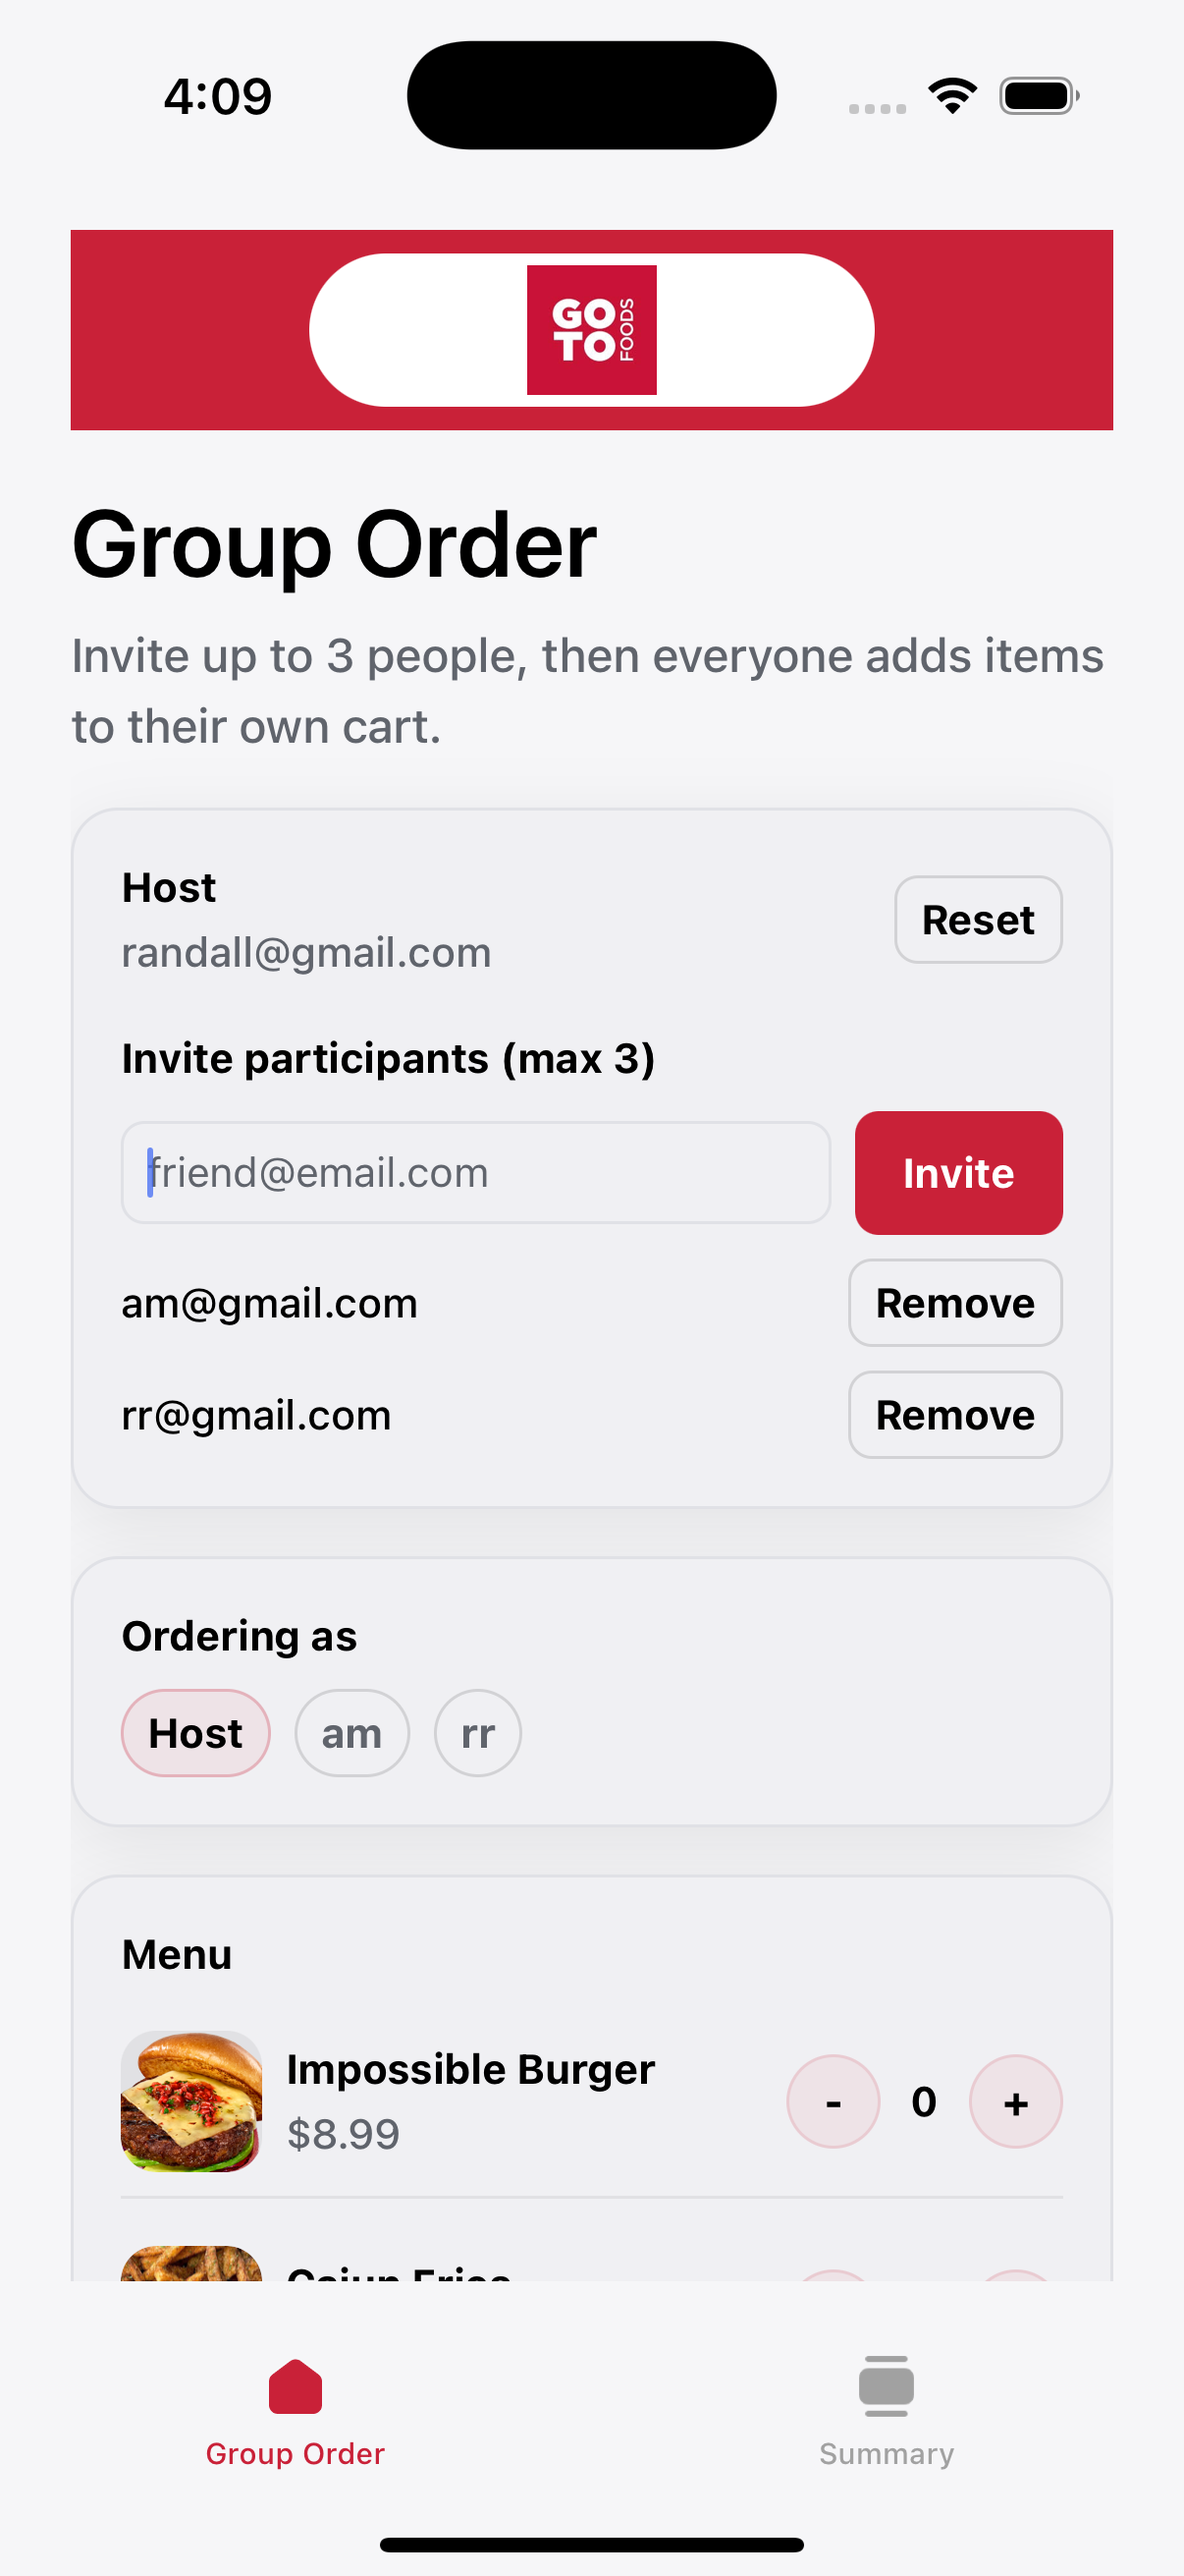
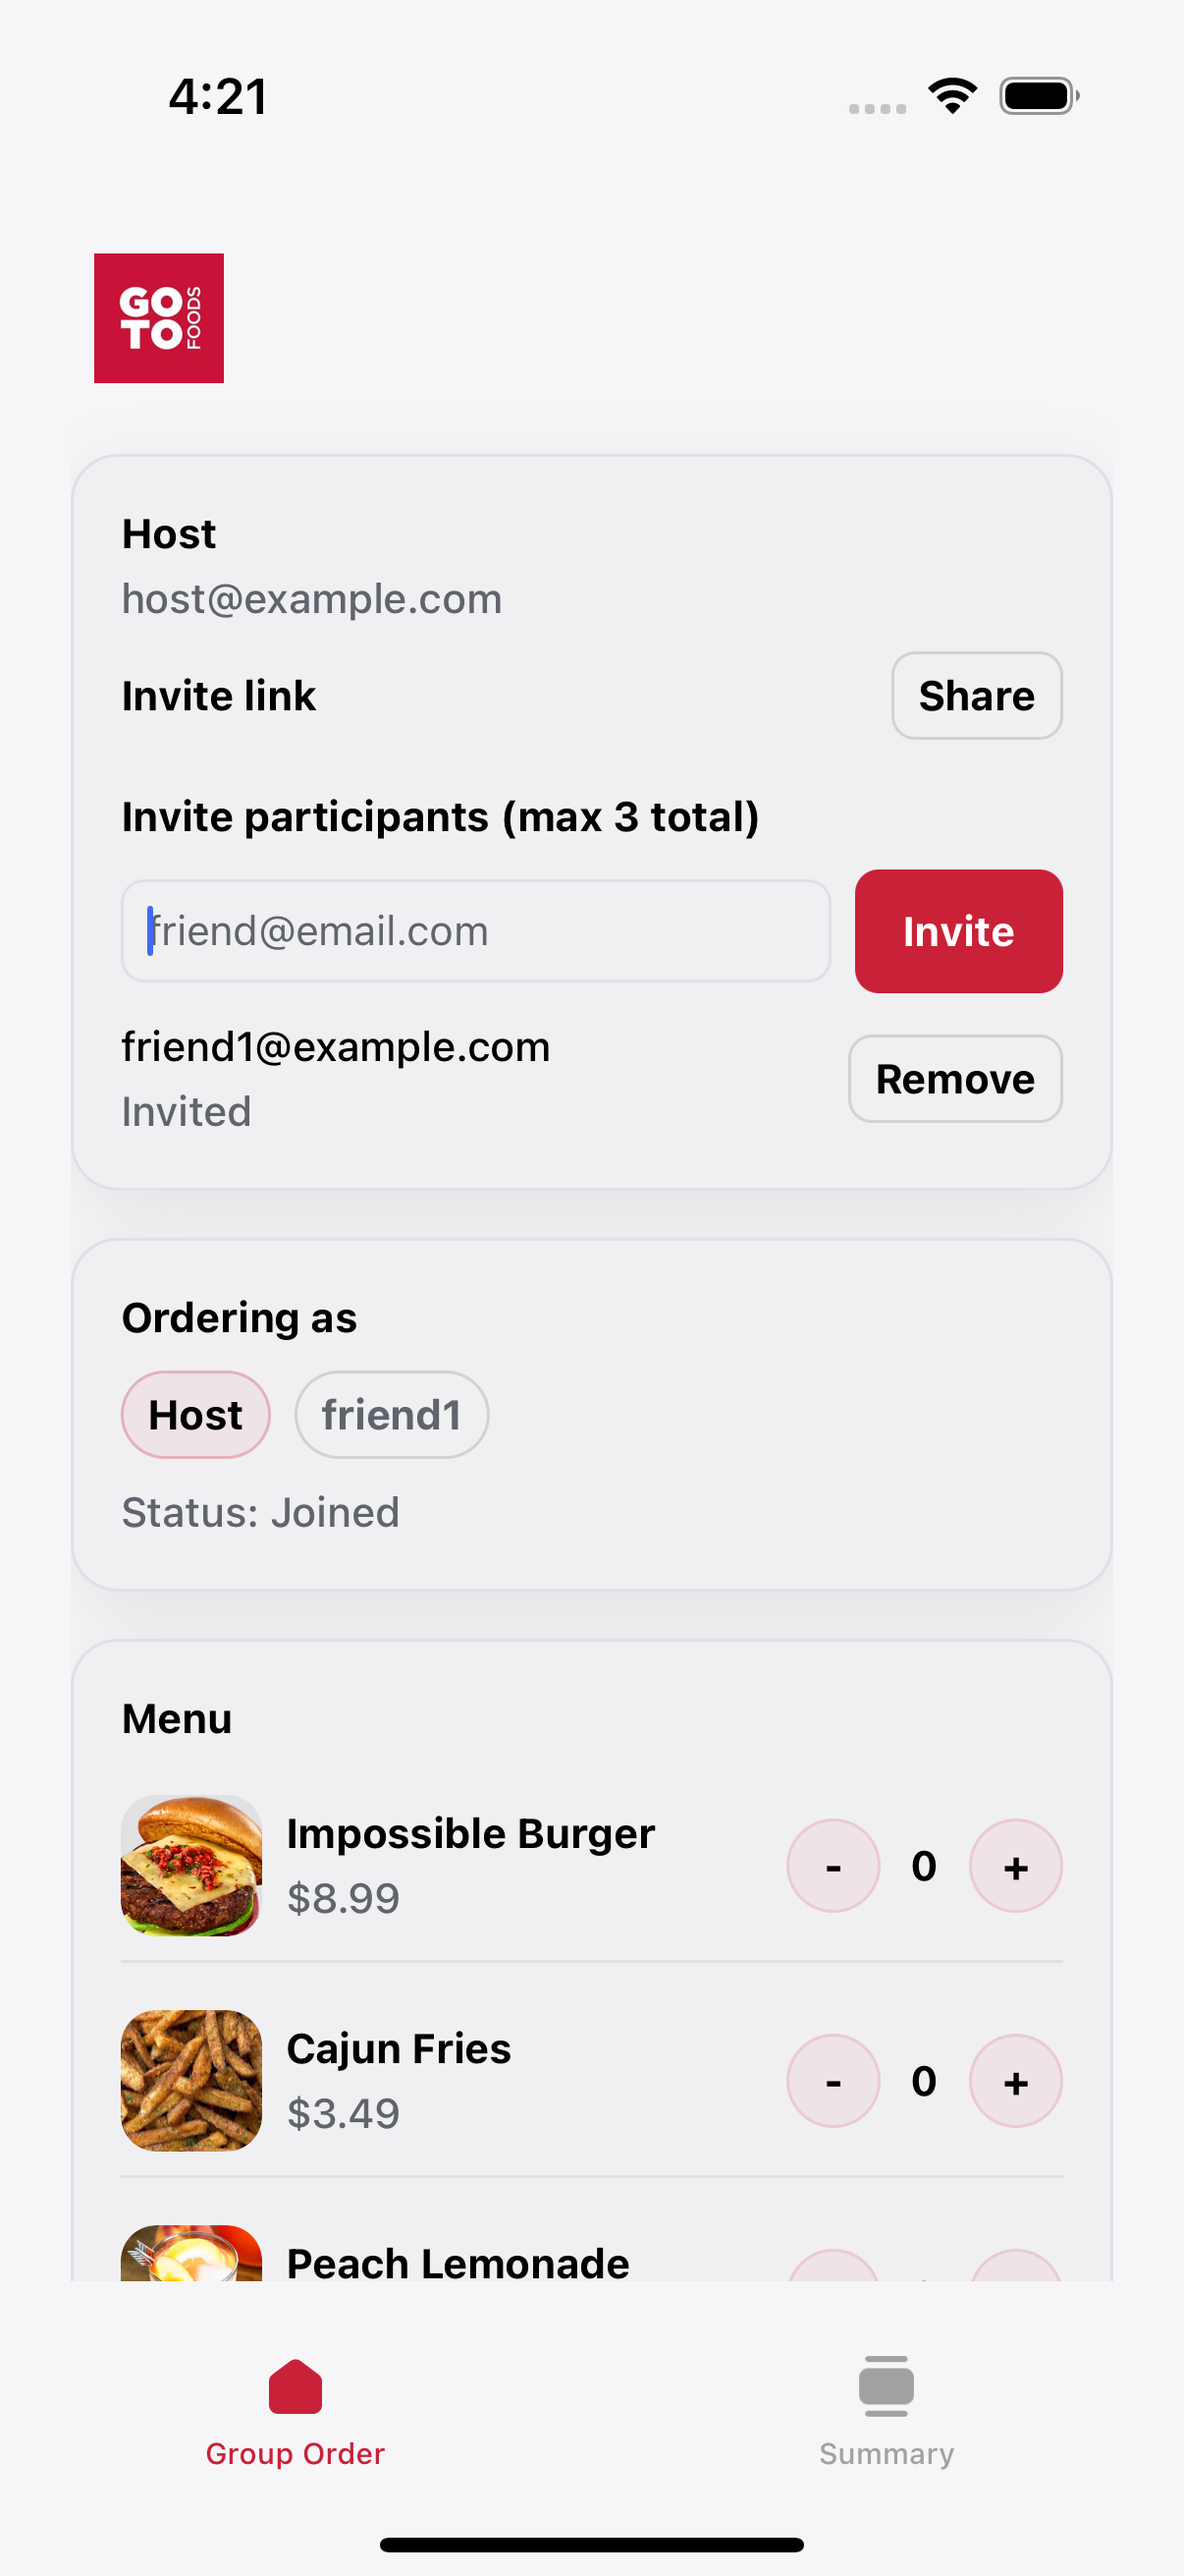
Screenshot updates

diff --git a/src/app/index.tsx b/src/app/index.tsx
@@ -63,6 +63,7 @@ export default function HomeScreen() {
             <ThemedView style={cardStyle}>
               <ThemedText type="smallBold">Start a group</ThemedText>
               <TextInput
+                testID="host-email-input"
                 value={hostEmailDraft}
                 onChangeText={setHostEmailDraft}
                 placeholder="host@email.com"
@@ -79,7 +80,8 @@ export default function HomeScreen() {
                 ]}
               />
               <Pressable
-                onPress={() => {
+                testID="create-group-button"
+                onPress={async () => {
                   const email = hostEmailDraft.trim().toLowerCase();
                   if (!/^\S+@\S+\.\S+$/.test(email)) {
                     Alert.alert(
@@ -88,7 +90,10 @@ export default function HomeScreen() {
                     );
                     return;
                   }
-                  actions.startGroup(email);
+                  const result = await actions.startGroup(email);
+                  if (!result.ok) {
+                    Alert.alert("Create group failed", result.reason);
+                  }
                 }}
                 style={({ pressed }) => [
                   styles.primaryButton,
@@ -115,6 +120,7 @@ export default function HomeScreen() {
                 <View style={styles.rowBetween}>
                   <ThemedText type="smallBold">Invite link</ThemedText>
                   <Pressable
+                    testID="share-invite-link-button"
                     onPress={async () => {
                       const url = Linking.createURL("/join", {
                         queryParams: { groupId: state.groupId },
@@ -135,6 +141,7 @@ export default function HomeScreen() {
                 </ThemedText>
                 <View style={styles.row}>
                   <TextInput
+                    testID="invite-email-input"
                     value={inviteDraft}
                     onChangeText={setInviteDraft}
                     placeholder="friend@email.com"
@@ -152,6 +159,7 @@ export default function HomeScreen() {
                     ]}
                   />
                   <Pressable
+                    testID="invite-button"
                     disabled={state.invitedEmails.length >= 2}
                     onPress={async () => {
                       const result = await actions.addInvite(inviteDraft);

diff --git a/src/state/group-order.tsx b/src/state/group-order.tsx
@@ -39,11 +39,13 @@ export type GroupOrderState = {
   cartsByEmail: Record<string, Record<string, number>>;
 };
 
-type GroupOrderContextValue = {
+export type GroupOrderContextValue = {
   state: GroupOrderState;
   products: Product[];
   actions: {
-    startGroup: (hostEmail: string) => Promise<void>;
+    startGroup: (
+      hostEmail: string,
+    ) => Promise<{ ok: true } | { ok: false; reason: string }>;
     loadGroup: (
       groupId: string,
       email: string,
@@ -166,10 +168,20 @@ export function GroupOrderProvider({
   }, []);
 
   const startGroup = useCallback(
-    async (hostEmailRaw: string) => {
+    async (
+      hostEmailRaw: string,
+    ): Promise<{ ok: true } | { ok: false; reason: string }> => {
       const hostEmail = normalizeEmail(hostEmailRaw);
-      const res = await backendCreateGroup(hostEmail);
-      applyBackendGroup(res.group);
+      try {
+        const res = await backendCreateGroup(hostEmail);
+        applyBackendGroup(res.group);
+        return { ok: true };
+      } catch (e) {
+        return {
+          ok: false,
+          reason: e instanceof Error ? e.message : "Failed to create group.",
+        };
+      }
     },
     [applyBackendGroup],
   );

diff --git a/backend/lib/store.js b/backend/lib/store.js
@@ -1,7 +1,15 @@
-const { MongoClient } = require("mongodb");
-
 const MONGODB_URI = process.env.MONGODB_URI || "";
 const MONGODB_DB = process.env.MONGODB_DB || "godash";
+
+/** @type {import('mongodb').MongoClientConstructor | null} */
+let MongoClient = null;
+if (MONGODB_URI) {
+  try {
+    MongoClient = require("mongodb").MongoClient;
+  } catch (_e) {
+    MongoClient = null;
+  }
+}
 
 /** @type {MongoClient | null} */
 let client = null;
@@ -13,6 +21,7 @@ const memoryGroups = new Map();
 
 async function getGroupsCollection() {
   if (!MONGODB_URI) return null;
+  if (!MongoClient) return null;
 
   if (!client) {
     client = new MongoClient(MONGODB_URI);

diff --git a/README.md b/README.md
@@ -114,6 +114,41 @@ Push notifications use Expo push tokens.
 npx expo start
 ```
 
+## Automated screenshots
+
+This repo includes a Maestro flow that drives the iOS Simulator UI and saves screenshots into `assets/github/`.
+
+1. Install Maestro (once)
+
+```bash
+brew install maestro
+```
+
+If the `maestro` CLI is not available after installing the app, install the CLI as well:
+
+```bash
+curl -Ls "https://get.maestro.mobile.dev" | bash
+```
+
+2. Start the app in the iOS Simulator
+
+```bash
+npx expo start
+```
+
+3. Run the screenshot flow
+
+```bash
+EXPO_URL="exp://127.0.0.1:8081" npm run screenshots:ios
+```
+
+Screenshots are written to:
+
+- `assets/github/start-order.png`
+- `assets/github/invites.png`
+- `assets/github/cart.png`
+- `assets/github/order-summary.png`
+
 ## Backend URL
 
 By default the app uses `http://localhost:3001`.
